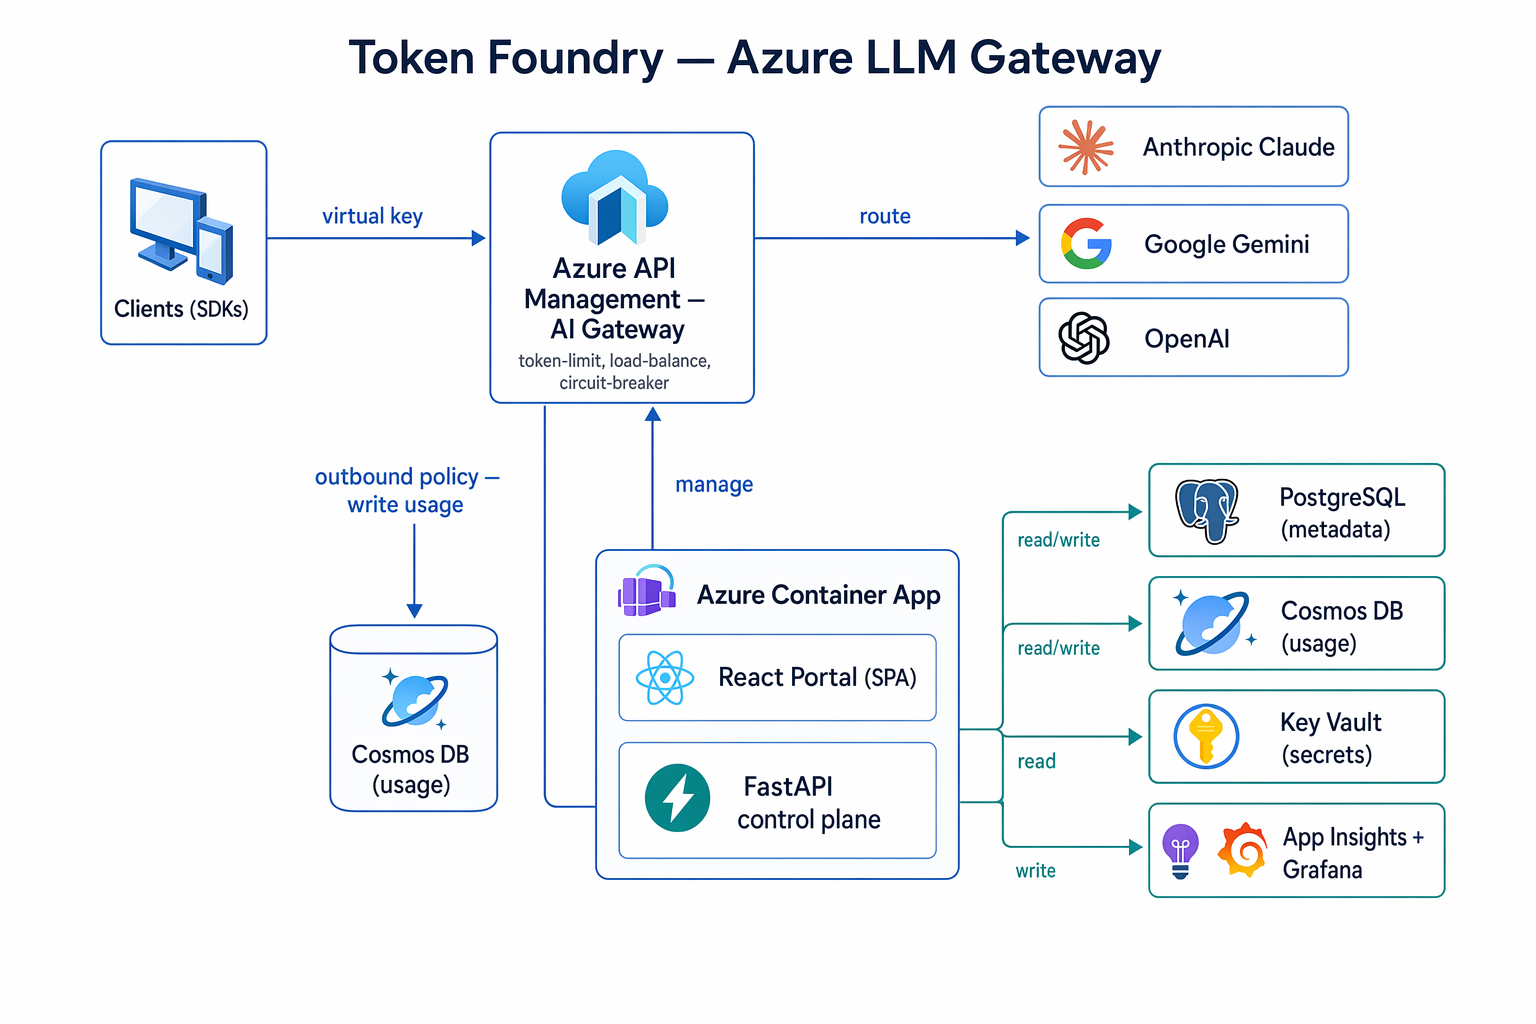
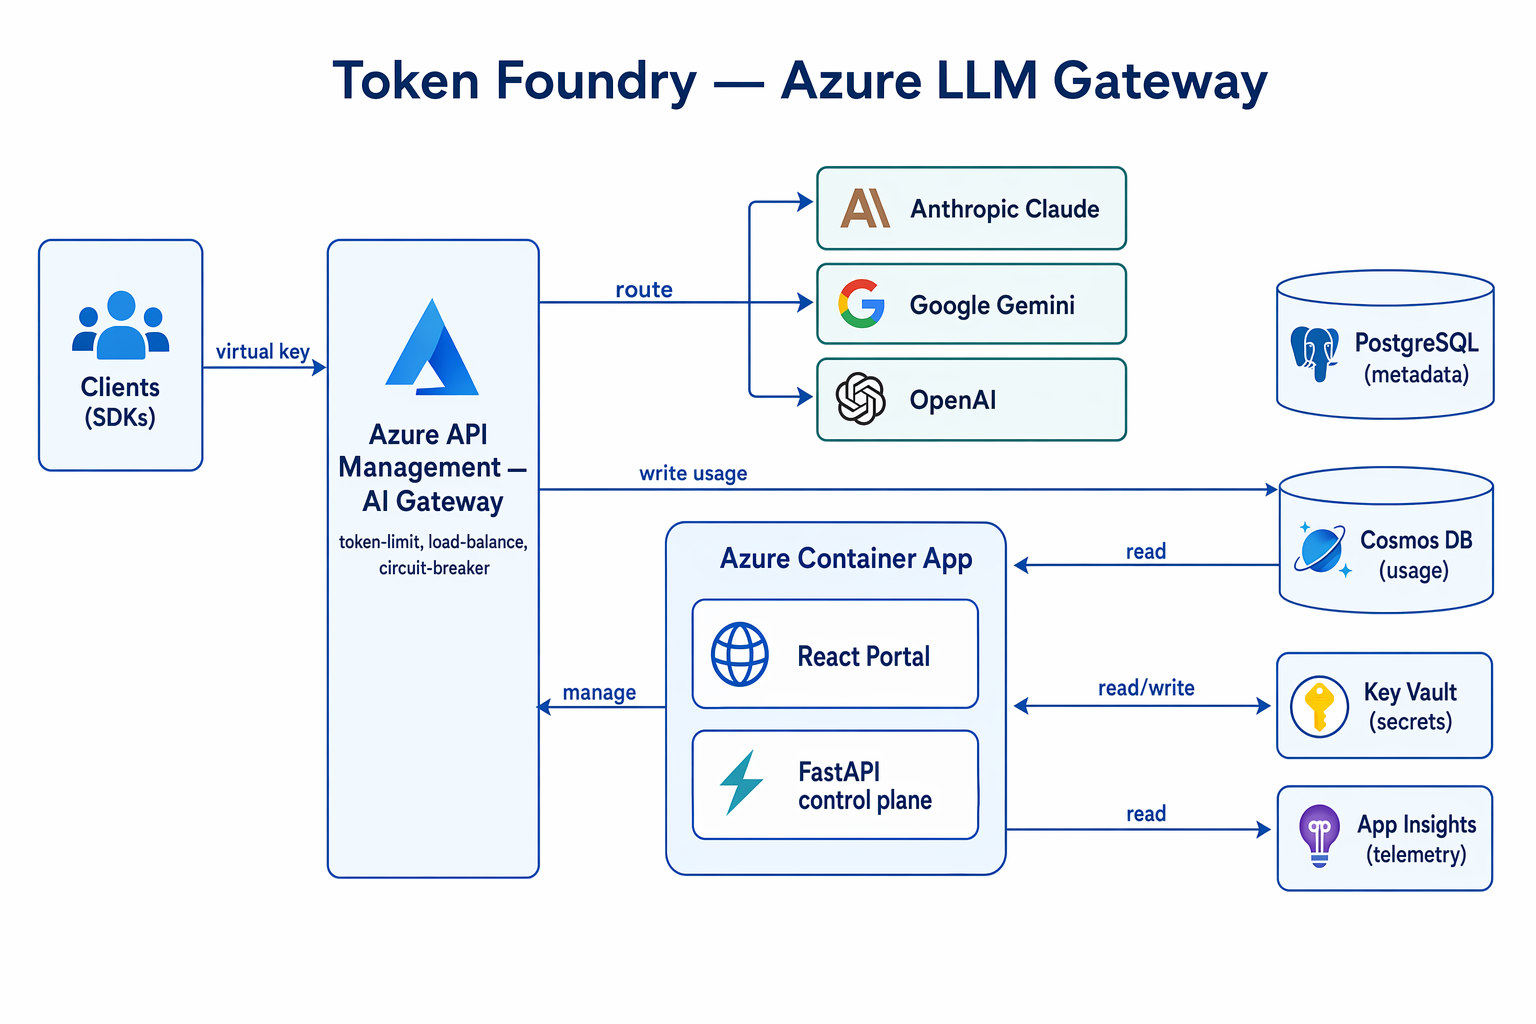
Replace architecture diagram with Mermaid; fix data-flow inaccuracies
The hand-drawn/AI diagram showed two Cosmos DB nodes (there is only one) and
mislabeled the App Insights edge as "write" (FastAPI only reads telemetry via
KQL). Replace the ASCII art in both READMEs with a Mermaid flowchart — GitHub
renders it natively and every label is authored, not generated. The single
Cosmos node now correctly has APIM's write arrow in and FastAPI's read arrow
out, making "one store, written by the gateway, read by the control plane"
explicit. Regenerate docs/architecture.png from the corrected structure as a
secondary visual; the Mermaid block is the source of truth.

diff --git a/README.md b/README.md
@@ -10,32 +10,45 @@ subscription-key header, so the provider's own SDK works against the gateway.
 
 ## Architecture
 
-![Token Foundry architecture](docs/architecture.png)
+```mermaid
+flowchart LR
+    Clients["Clients (SDKs)"]
 
-> The diagram is a visual aid; the ASCII below is the authoritative reference.
+    subgraph ACA["aca-app — single Azure Container App"]
+        Portal["React portal<br/>(admin + customer SPA)"]
+        API["FastAPI control plane<br/>tenants · projects · keys ·<br/>routes · budgets · usage"]
+        Portal -. "/api" .-> API
+    end
 
-```text
-                       aca-app (single Azure Container App)
-                       ┌──────────────────────────────────────┐
-                       │  React portal (admin + customer SPA)  │
-                       │  served by FastAPI StaticFiles        │
-                       │             │ /api                     │
-  Clients ──key──▶ APIM            ▼                            │
-   (data plane)     │     FastAPI control plane                │
-   per-provider API │     tenants / projects / keys / routes / │
-   token-limit      │     budgets / usage + tenant-scope auth  │
-   LB + breaker     └────────┬───────────────┬─────────────────┘
-   emit-metric  │            │ manage (ARM)   │
-                │            ▼                ├─ PostgreSQL  (metadata)
-                │      provisions APIM        ├─ Cosmos NoSQL (usage, read)
-                │      products / subs /      ├─ Key Vault   (secrets r/w)
-                │      backends at runtime    └─ App Insights (KQL telemetry)
-                │
-                ├─route─▶ Claude / Gemini / OpenAI backends (per-provider API)
-                │
-                └─outbound policy (managed identity, fire-and-forget)──▶
-                         Cosmos NoSQL `usage` container (one doc per call)
+    APIM["Azure API Management — AI gateway<br/>token-limit · load-balance · circuit-breaker"]
+
+    Claude["Anthropic Claude"]
+    Gemini["Google Gemini"]
+    OpenAI["OpenAI"]
+
+    PG[("PostgreSQL<br/>metadata")]
+    Cosmos[("Cosmos DB<br/>usage")]
+    KV["Key Vault<br/>secrets"]
+    Insights["App Insights<br/>telemetry"]
+
+    Clients -->|virtual key| APIM
+    APIM -->|route| Claude
+    APIM -->|route| Gemini
+    APIM -->|route| OpenAI
+    APIM -->|"outbound policy: write usage"| Cosmos
+
+    API -->|manage · ARM| APIM
+    API <-->|read / write| PG
+    API <-->|read / write| KV
+    API -->|read| Cosmos
+    API -->|read| Insights
 ```
+
+> There is **one** Cosmos DB. APIM *writes* a usage record to it on every call
+> (outbound policy); FastAPI *reads* from that same store for the usage page —
+> that's why one node has both a write arrow in and a read arrow out. A polished
+> rendering is at [`docs/architecture.png`](docs/architecture.png); this Mermaid
+> diagram is the authoritative source.
 
 - **APIM = data plane** — auth, token-limiting, routing, load-balance + circuit
   breaker, and the **outbound policy that writes one usage record per call

diff --git a/README.zh.md b/README.zh.md
@@ -9,32 +9,44 @@ Azure 原生的 LLM token 中枢 / AI 网关。在 Azure API Management 的 GenA
 
 ## 架构
 
-![Token Foundry 架构](docs/architecture.png)
+```mermaid
+flowchart LR
+    Clients["客户端 (SDK)"]
 
-> 图片仅作示意;下面的 ASCII 图才是权威参考。
+    subgraph ACA["aca-app — 单个 Azure Container App"]
+        Portal["React 门户<br/>(管理端 + 客户端 SPA)"]
+        API["FastAPI 控制平面<br/>租户 · 项目 · 密钥 ·<br/>路由 · 预算 · 用量"]
+        Portal -. "/api" .-> API
+    end
 
-```text
-                       aca-app(单个 Azure Container App)
-                       ┌──────────────────────────────────────┐
-                       │  React 门户(管理端 + 客户端 SPA)      │
-                       │  由 FastAPI StaticFiles 托管            │
-                       │             │ /api                     │
-  客户端 ──密钥──▶ APIM            ▼                            │
-   (数据平面)       │     FastAPI 控制平面                      │
-   每供应商一个 API │     租户 / 项目 / 密钥 / 路由 /           │
-   token 限流       │     预算 / 用量 + 租户作用域鉴权          │
-   负载均衡 + 熔断  └────────┬───────────────┬─────────────────┘
-   发射指标     │            │ 管理 (ARM)     │
-                │            ▼                ├─ PostgreSQL  (元数据)
-                │      运行时向 APIM           ├─ Cosmos NoSQL (用量,读)
-                │      provision 产品/订阅/    ├─ Key Vault   (密钥读写)
-                │      后端                    └─ App Insights (KQL 遥测)
-                │
-                ├─路由─▶ Claude / Gemini / OpenAI 后端(每供应商一个 API)
-                │
-                └─出站策略(托管身份,即发即忘)──▶
-                         Cosmos NoSQL `usage` 容器(每次调用一条文档)
+    APIM["Azure API Management — AI 网关<br/>token 限流 · 负载均衡 · 熔断"]
+
+    Claude["Anthropic Claude"]
+    Gemini["Google Gemini"]
+    OpenAI["OpenAI"]
+
+    PG[("PostgreSQL<br/>元数据")]
+    Cosmos[("Cosmos DB<br/>用量")]
+    KV["Key Vault<br/>密钥"]
+    Insights["App Insights<br/>遥测"]
+
+    Clients -->|虚拟密钥| APIM
+    APIM -->|路由| Claude
+    APIM -->|路由| Gemini
+    APIM -->|路由| OpenAI
+    APIM -->|"出站策略:写用量"| Cosmos
+
+    API -->|管理 · ARM| APIM
+    API <-->|读 / 写| PG
+    API <-->|读 / 写| KV
+    API -->|读| Cosmos
+    API -->|读| Insights
 ```
+
+> 全系统只有**一个** Cosmos DB。APIM 在每次调用时把一条用量记录*写*进去
+> (出站策略);FastAPI 从**同一个**库里*读*出来给用量页 —— 这就是为什么
+> 同一个节点既有一条写入箭头、又有一条读出箭头。精修版渲染图在
+> [`docs/architecture.png`](docs/architecture.png);这张 Mermaid 图才是权威来源。
 
 - **APIM = 数据平面** —— 鉴权、token 限流、路由、负载均衡 + 熔断,以及那条
   **每次调用直接把一条用量记录写进 Cosmos 的出站策略**(托管身份鉴权、